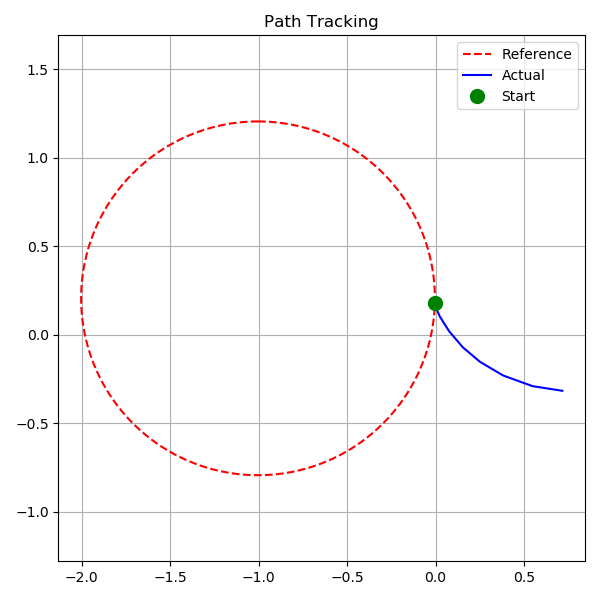
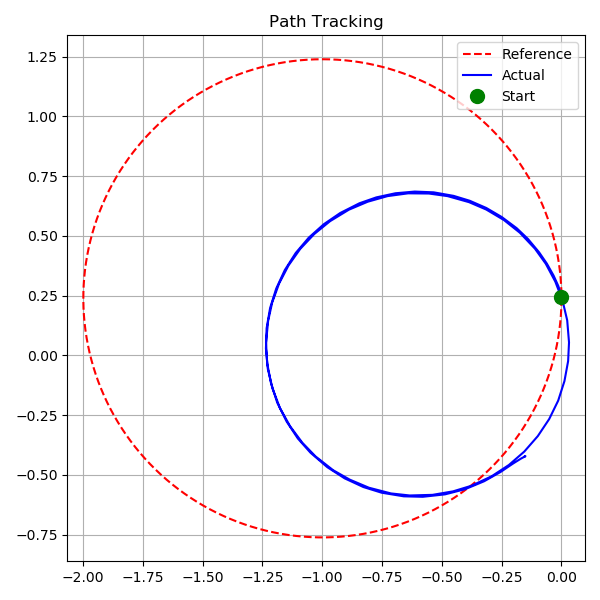
slowervelocitytried_tuningneeded

diff --git a/check_npz.py b/check_npz.py
@@ -1,9 +1,11 @@
+from turtle import speed
+
 import numpy as np
 import matplotlib.pyplot as plt
 import math
 import glob, os
 
-files = glob.glob('hardware_results/*.npz')
+files = glob.glob('hardware_results_test1/*.npz')
 latest = max(files, key=os.path.getmtime)
 d = np.load(latest, allow_pickle=True)
 print("Loading:", latest)
@@ -25,6 +27,10 @@ center_y = y[0] - radius * math.cos(theta_start)
 
 theta = np.linspace(0, 2*math.pi, 200)
 ref_x = center_x + radius * np.cos(theta)
+
+plt.tight_layout()
+plt.savefig('path_tracking.png')
+plt.show()
 ref_y = center_y + radius * np.sin(theta)
 
 fig, ax = plt.subplots(figsize=(6, 6))
@@ -35,6 +41,16 @@ ax.set_title('Path Tracking')
 ax.legend()
 ax.axis('equal')
 ax.grid(True)
+
+dt = 0.1  # whatever your MPC timestep is
+dx = np.diff(x)
+dy = np.diff(y)
+speed = np.sqrt(dx**2 + dy**2) / dt
+
+print(f"Mean speed: {speed.mean():.3f} m/s")
+print(f"Max speed:  {speed.max():.3f} m/s")
+print(f"Min speed:  {speed.min():.3f} m/s")
+
 
 plt.tight_layout()
 plt.savefig('path_tracking.png')

diff --git a/MPC_Hardware/qcar_params.py b/MPC_Hardware/qcar_params.py
@@ -1,7 +1,7 @@
 import numpy as np
 
-MAX_SPEED  = 0.20 #[m/s]
-MIN_SPEED  = 0.15 #[m/s]
+MAX_SPEED  = 0.10 #[m/s]
+MIN_SPEED  = 0.08 #[m/s]
 MAX_STEER  = np.deg2rad(25.0) # maximum steering angle [rad]
 MAX_DSTEER = np.deg2rad(45.0) # maximum steering [rad/s]
 MAX_ACCEL  = 0.20 # maximum speed [m/s^]
